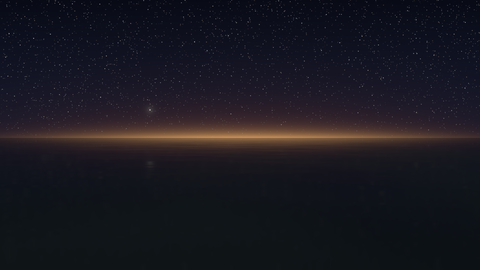
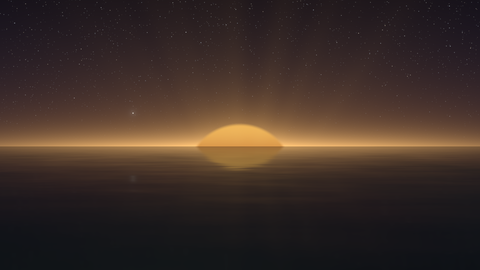
library: the valley's rare moments: stage_valley's `reveal` widens the band beyond dawn 1 and lifts the dawn it hands on, `sun` lifts the top of a disc out of the band, copper to gold, never white, with `sun_size`; sky_stars' `meteor` fires one shooting star on a rise, thin, warm white with a copper
generated with Claude Code

diff --git a/library/README.md b/library/README.md
@@ -552,7 +552,8 @@ swap.
 A second family of worlds: the camera flies low over a dark lake in a valley at night, towards
 the first light of dawn on the horizon. The sky is night blue near the horizon and black
 overhead. The dawn lies on the horizon as a band of light: `dawn` 0 is a thin dark red line, 1 a
-broad copper band with a gold core. The band never becomes a sun. The lake mirrors the sky, the
+broad copper band with a gold core. `sun` lifts the top of a sun disc out of the band, copper low
+down, gold towards 1. The disc never turns white. The lake mirrors the sky, the
 band and the stars, blurred and broken up by ripples. It also mirrors what stands on it: the
 floor, mid and ceiling elements. A black body stays black in the water, and its rims mirror
 fainter and softer than they shine. The mirror of a thing starts at its foot; the ripples move
@@ -582,7 +583,10 @@ glow. So a breakdown raises the light on the horizon, and the drop takes it back
 - Params: `warmth` (0 the ember palette with an amber glow above the band, 1 the jade palette
   with a cold blue-green glow and a greener mist), `lift`, `energy_curve`, `dim` (the sky's
   light: 1 full, 0 half; `beats.arrange` binds it as `intensity`), `dawn` (0 to 1: bind it to
-  the file's `progress`), `swell_rise` (8 s) and `swell_fall` (3 s), `band_height` (how far the
+  the file's `progress`), `reveal` (0 to 1, for one moment of the widest light: the band grows
+  wider and taller than at `dawn` 1, and the stage lifts `dawn` to at least this value, so the stars
+  thin and the rims brighten with it), `sun` (0 under the horizon, 1 the disc's top stands half its
+  radius above the horizon), `sun_size` (the disc's radius in picture heights: 0.16), `swell_rise` (8 s) and `swell_fall` (3 s), `band_height` (how far the
   band reaches up at `dawn` 1, in picture heights: 0.1), `band_width` (how far it reaches to
   either side at `dawn` 1: 0.9). The lane's `bars_per_turn` (4: one turn every 4 bars, slower
   than on `stage_synthwave`), `swing`, `turn`, `beats_per_bar`; `step`; `start`, `end` of the
@@ -1440,7 +1444,8 @@ A night sky of stars over black, for `stage_valley`: many faint stars, fewer med
 few bright ones, in patches of denser and sparser sky. Venus is the brightest point, steady,
 low over the horizon. The treble makes the stars twinkle. Towards the stage's `dawn` 1 the stars
 near the horizon fade; Venus stays. The stars keep their place in the sky when the camera
-moves.
+moves. Two things happen only when the project asks for them: one shooting star, and the stars
+drawn as arcs round a pole, as in a long exposure of the night sky.
 
 - In: `bus`, `pose` (the stage's: the horizon, `far` and `dawn` come from it). Out: `out`.
 - Params: `presence` (towards 0 the stars dim to a black sky), `brightness`, `seed` (another
@@ -1449,6 +1454,18 @@ moves.
   `venus_x` and `venus_y` (where Venus stands, in picture heights from straight ahead and above
   the horizon: -0.32 and 0.1), `thin` (how high above the horizon the dawn thins the stars:
   0.35 picture heights).
+- Shooting star: each rise of `meteor` from 0 past 0.5 fires one. It crosses part of the sky in
+  `meteor_time` seconds (1), thin, warm white, with a short tail fading to copper, and stays above
+  the band. `meteor_seed` picks its place and direction; keep the seed still during the flight. To
+  fire it at a moment of the music, make `meteor` 1 for a short window of the file's seconds, 0.15 s
+  for instance. A seek past the window fires nothing.
+- Arcs: `trail` (0 to 1) draws each medium and bright star as an arc that runs back from the star
+  round the pole, brightest at the star. The arc's angle is `trail` times `trail_angle` (45
+  degrees). `pole_x` and `pole_y` place the pole (0.3 and 0.42 picture heights, as for Venus); it
+  may lie outside the picture. `trail_light` (1) is the arcs' light: turn it down to fade them at
+  their full length. The faint stars dim while the arcs show, and Venus stays as she is. The arcs
+  are computed in the shader per frame, with no feedback, so they follow a seek. They cost GPU time
+  only while `trail` is above 0.
 
 ### sky_horizon_glow
 
